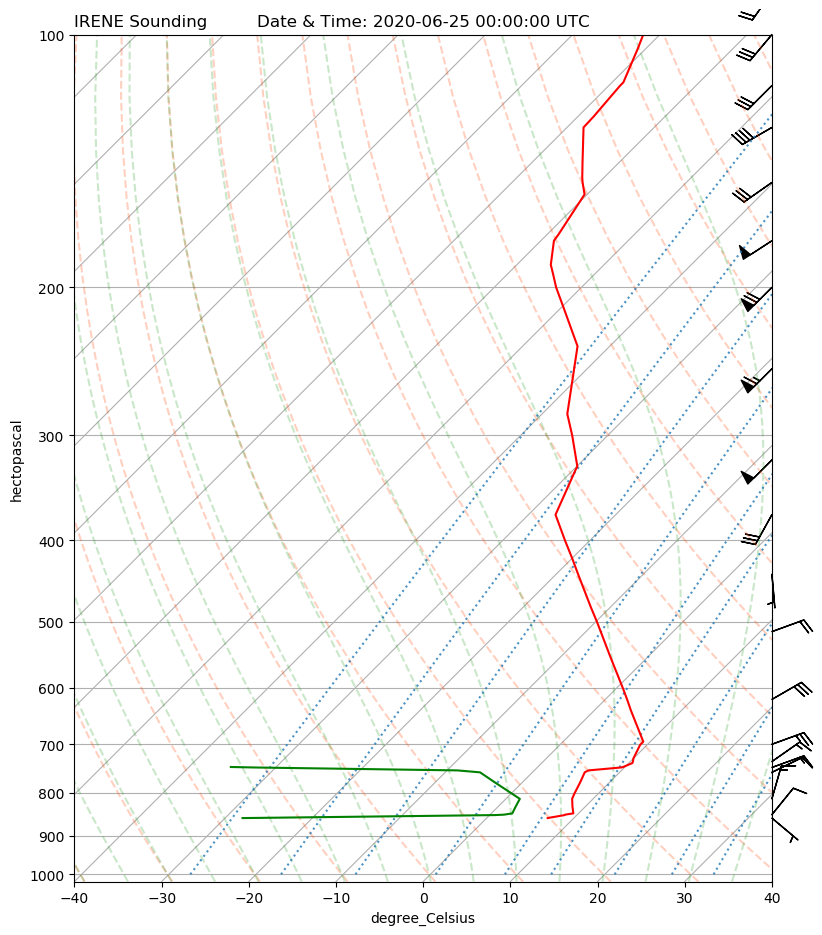
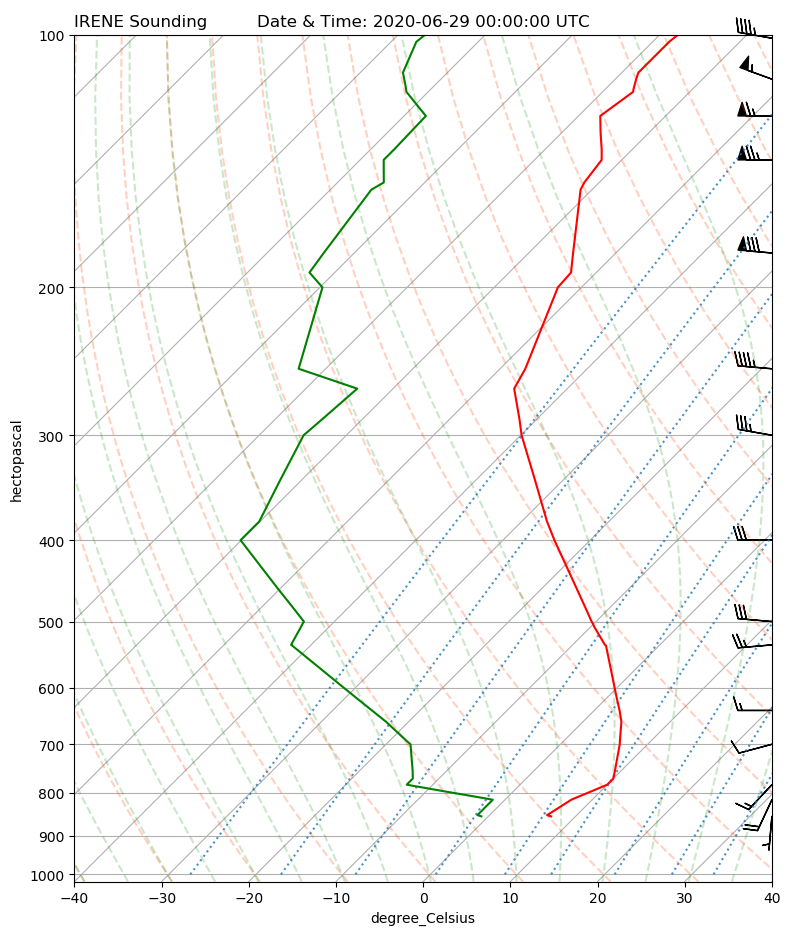
latest Irene sounding

Changed region(s): [[0.0304, 0.0, 1.0, 0.9925], [0.0, 0.4652, 0.0304, 0.5273]]

diff --git a/sounding/Irene_real_time_Skew-T_Analysis.py b/sounding/Irene_real_time_Skew-T_Analysis.py
@@ -10,7 +10,7 @@ from siphon.simplewebservice.wyoming import WyomingUpperAir
 # Plan to soft code these variables in future updates, 
 
 # to make it easy to access any station in South Africa for any given time
-dt = datetime(2020, 6, 25, 0)
+dt = datetime(2020, 6, 29, 0)
 station = 'FAIR'
 
 # Grab remote data from server at the University of Wyoming. This requires internet connection.
